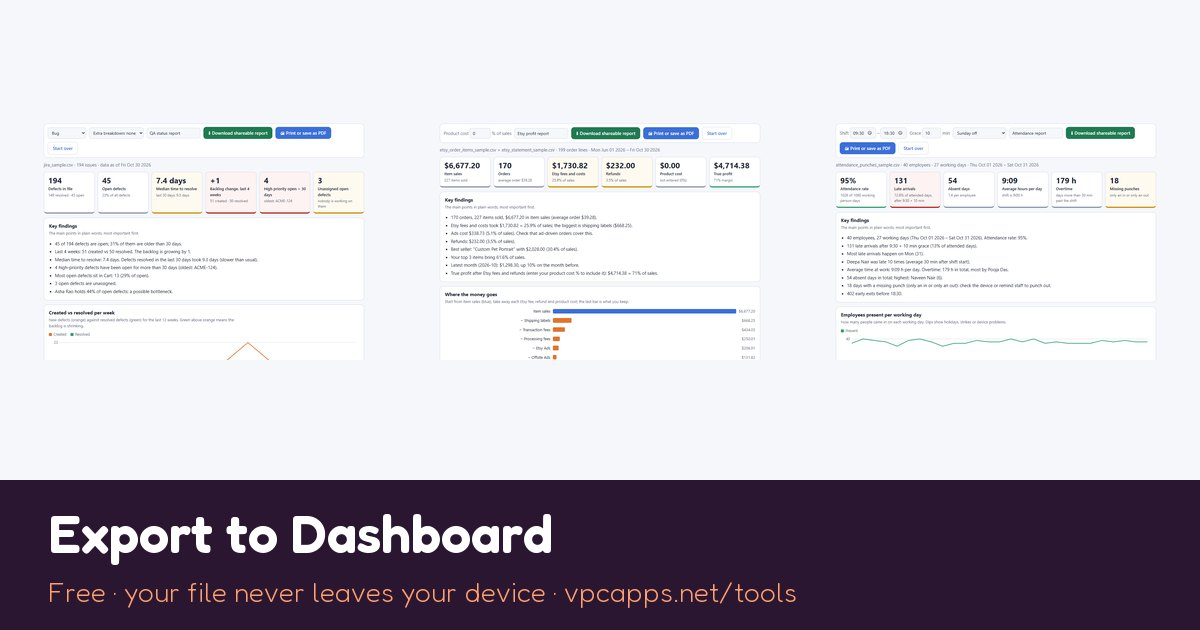
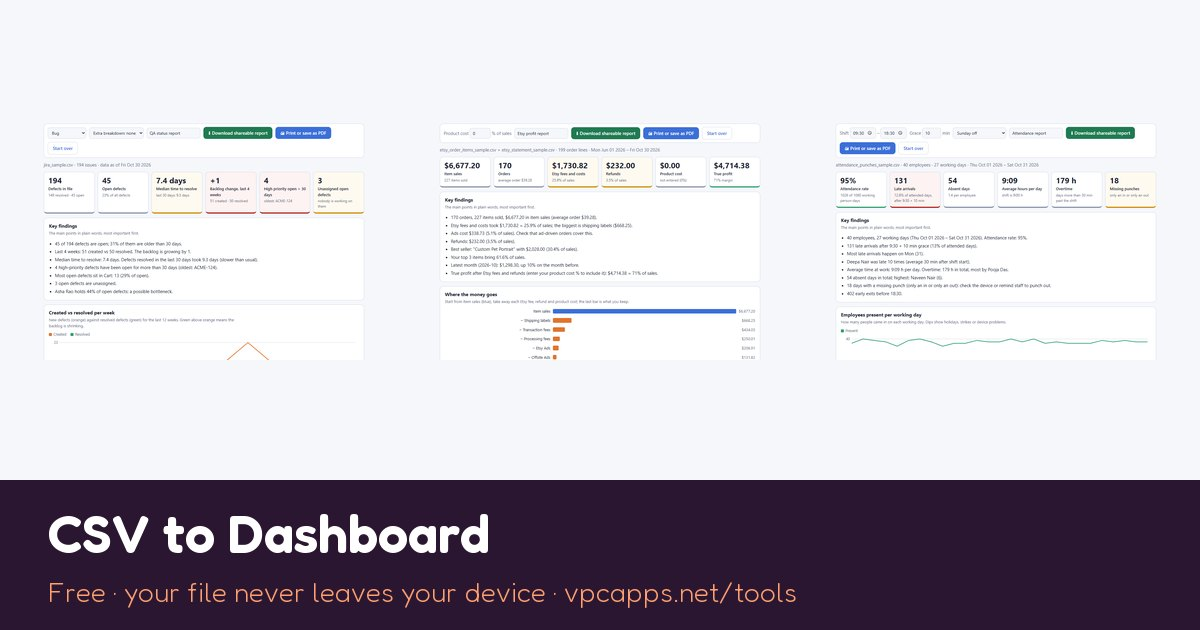
Tools: publish CSV to Dashboard (rename, no watermark, TSV/TXT pickers) and /tools/check/

Changed region(s): [[0.0308, 0.8143, 0.4625, 0.9048]]

diff --git a/tools/jira-csv-dashboard/index.html b/tools/jira-csv-dashboard/index.html
@@ -26,13 +26,13 @@
 <script>(function(){var framed;try{framed=window.top!==window.self;}catch(e){framed=true;}
 if(!framed)return;var ok=false;try{ok=window.top.location.host===location.host;}catch(e){}
 if(ok)return;document.write('<div style="position:fixed;inset:0;display:flex;align-items:center;justify-content:center;background:#fdf1e7;font:16px system-ui,sans-serif;color:#2b2140;text-align:center;z-index:2147483647">'+
-'<div style="padding:24px"><p style="font-size:20px;font-weight:700;margin:0 0 8px">Use Export to Dashboard free on vpcapps.net</p>'+
+'<div style="padding:24px"><p style="font-size:20px;font-weight:700;margin:0 0 8px">Use CSV to Dashboard free on vpcapps.net</p>'+
 '<p style="margin:0 0 18px;color:#6b5f80">This tool by VPC Apps runs on its own page:<br><b>'+location.host+location.pathname+'</b></p>'+
 '<a href="'+location.href.replace(/"/g,'%22')+'" target="_top" rel="noopener" style="display:inline-block;background:#e2495f;color:#fff;padding:12px 20px;border-radius:12px;text-decoration:none;font-weight:700">Open the tool</a></div></div>'+
 '<plaintext style="display:none">');})();</script>
 <script>if('serviceWorker' in navigator)addEventListener('load',function(){navigator.serviceWorker.register('/tools/sw.js').catch(function(){})});</script>
 <script type="application/ld+json">{"@context": "https://schema.org", "@type": "SoftwareApplication", "name": "Jira CSV to dashboard", "description": "Free Jira CSV to dashboard: drop a Jira issues export, get a QA and bug dashboard and an executive summary. Your file never leaves your device.", "url": "https://vpcapps.net/tools/jira-csv-dashboard/", "applicationCategory": "BusinessApplication", "operatingSystem": "Any (web browser)", "image": "https://vpcapps.net/assets/img/tools/jira-og.jpg", "isAccessibleForFree": true, "offers": {"@type": "Offer", "price": "0", "priceCurrency": "USD"}, "publisher": {"@type": "Organization", "name": "VPC Apps", "url": "https://vpcapps.net"}, "featureList": ["Six headline numbers: issues, open, resolved, median time to resolve, high-priority issues open over 30 days, unassigned open issues.", "Findings written out for you: whether the backlog grew in the last 4 weeks, old high-priority bugs, and whether one person holds too many open issues.", "Charts: created vs resolved per week, age of open issues, open by priority, assignee, component and status, issues by fix version.", "Filters for issue type (Bugs by default) and project, plus a breakdown by one of your custom fields such as Severity or Root cause.", "A one-file HTML summary (no scripts, opens anywhere, easy to email) and a print-ready PDF layout."]}</script>
-<script type="application/ld+json">{"@context": "https://schema.org", "@type": "FAQPage", "mainEntity": [{"@type": "Question", "name": "Is my Jira data uploaded anywhere?", "acceptedAnswer": {"@type": "Answer", "text": "No. The CSV is read and analysed by JavaScript in your own browser tab. Nothing from the file is sent to us or to any server, so it suits confidential projects, and it keeps working offline after your first visit."}}, {"@type": "Question", "name": "Which Jira exports work?", "acceptedAnswer": {"@type": "Answer", "text": "Jira Cloud, Server and Data Center issue exports in CSV, with all fields or current fields. Columns are found by their names, so the order doesn't matter, and multi-value fields like Labels, Sprint and Comment that Jira repeats in several columns are merged."}}, {"@type": "Question", "name": "How many issues can I analyse?", "acceptedAnswer": {"@type": "Answer", "text": "The tool reads the first 5,000 rows of each file. Jira Cloud exports up to 10,000 issues at a time; for bigger projects, export one file per quarter or per project."}}, {"@type": "Question", "name": "Can I break the numbers down by a custom field?", "acceptedAnswer": {"@type": "Answer", "text": "Yes. Custom fields appear in the export as \"Custom field (Name)\". Pick one, such as Severity, Root cause or Environment, under \"Extra breakdown\" to see open issues by that field."}}, {"@type": "Question", "name": "How do I share the report?", "acceptedAnswer": {"@type": "Answer", "text": "Use \"Download summary (HTML)\" for a single file you can attach to an email, or \"Print / PDF\" and save as PDF. Reports end with a small \"made with\" line."}}]}</script>
+<script type="application/ld+json">{"@context": "https://schema.org", "@type": "FAQPage", "mainEntity": [{"@type": "Question", "name": "Is my Jira data uploaded anywhere?", "acceptedAnswer": {"@type": "Answer", "text": "No. The CSV is read and analysed by JavaScript in your own browser tab. Nothing from the file is sent to us or to any server, so it suits confidential projects, and it keeps working offline after your first visit."}}, {"@type": "Question", "name": "Which Jira exports work?", "acceptedAnswer": {"@type": "Answer", "text": "Jira Cloud, Server and Data Center issue exports in CSV, with all fields or current fields. Columns are found by their names, so the order doesn't matter, and multi-value fields like Labels, Sprint and Comment that Jira repeats in several columns are merged."}}, {"@type": "Question", "name": "How many issues can I analyse?", "acceptedAnswer": {"@type": "Answer", "text": "The tool reads the first 5,000 rows of each file. Jira Cloud exports up to 10,000 issues at a time; for bigger projects, export one file per quarter or per project."}}, {"@type": "Question", "name": "Can I break the numbers down by a custom field?", "acceptedAnswer": {"@type": "Answer", "text": "Yes. Custom fields appear in the export as \"Custom field (Name)\". Pick one, such as Severity, Root cause or Environment, under \"Extra breakdown\" to see open issues by that field."}}, {"@type": "Question", "name": "How do I share the report?", "acceptedAnswer": {"@type": "Answer", "text": "Use \"Download summary (HTML)\" for a single file you can attach to an email, or \"Print / PDF\" and save as PDF."}}]}</script>
 <script type="application/ld+json">{"@context": "https://schema.org", "@type": "BreadcrumbList", "itemListElement": [{"@type": "ListItem", "position": 1, "name": "Home", "item": "https://vpcapps.net/"}, {"@type": "ListItem", "position": 2, "name": "Tools", "item": "https://vpcapps.net/tools/"}, {"@type": "ListItem", "position": 3, "name": "Jira CSV to dashboard", "item": "https://vpcapps.net/tools/jira-csv-dashboard/"}]}</script>
 </head>
 <body>
@@ -65,8 +65,8 @@ if(ok)return;document.write('<div style="position:fixed;inset:0;display:flex;ali
   <div class="panel"><h2>Your file never leaves your device</h2><p>The tool is a web page that runs entirely in your browser. When you choose a file, it is read and analysed on your computer: nothing is uploaded, stored or seen by us. After your first visit it also works with no internet connection. The page counts anonymous visits with Cloudflare Web Analytics (no cookies, nothing from your file); ad blockers may block it. See our <a href="/privacy/">privacy policy</a>.</p></div>
   <div class="panel"><h2>Coming next: inside Jira</h2><p>We're building a Jira Cloud app that shows a release-readiness scorecard and this summary live inside Jira, with no export needed. <a href="/contact/">Email us</a> if you'd like to hear when it's out.</p></div>
 </section>
-<section class="wrap section narrow faq"><h2>Questions</h2><details><summary>Is my Jira data uploaded anywhere?</summary><p>No. The CSV is read and analysed by JavaScript in your own browser tab. Nothing from the file is sent to us or to any server, so it suits confidential projects, and it keeps working offline after your first visit.</p></details><details><summary>Which Jira exports work?</summary><p>Jira Cloud, Server and Data Center issue exports in CSV, with all fields or current fields. Columns are found by their names, so the order doesn&#x27;t matter, and multi-value fields like Labels, Sprint and Comment that Jira repeats in several columns are merged.</p></details><details><summary>How many issues can I analyse?</summary><p>The tool reads the first 5,000 rows of each file. Jira Cloud exports up to 10,000 issues at a time; for bigger projects, export one file per quarter or per project.</p></details><details><summary>Can I break the numbers down by a custom field?</summary><p>Yes. Custom fields appear in the export as &quot;Custom field (Name)&quot;. Pick one, such as Severity, Root cause or Environment, under &quot;Extra breakdown&quot; to see open issues by that field.</p></details><details><summary>How do I share the report?</summary><p>Use &quot;Download summary (HTML)&quot; for a single file you can attach to an email, or &quot;Print / PDF&quot; and save as PDF. Reports end with a small &quot;made with&quot; line.</p></details></section>
-<section class="wrap section narrow"><p class="muted">More free tools: <a href="/tools/etsy-profit-dashboard/">Etsy profit dashboard</a> · <a href="/tools/attendance-report-analyzer/">Attendance report analyzer</a> · <a href="/tools/">all tools</a></p></section>
+<section class="wrap section narrow faq"><h2>Questions</h2><details><summary>Is my Jira data uploaded anywhere?</summary><p>No. The CSV is read and analysed by JavaScript in your own browser tab. Nothing from the file is sent to us or to any server, so it suits confidential projects, and it keeps working offline after your first visit.</p></details><details><summary>Which Jira exports work?</summary><p>Jira Cloud, Server and Data Center issue exports in CSV, with all fields or current fields. Columns are found by their names, so the order doesn&#x27;t matter, and multi-value fields like Labels, Sprint and Comment that Jira repeats in several columns are merged.</p></details><details><summary>How many issues can I analyse?</summary><p>The tool reads the first 5,000 rows of each file. Jira Cloud exports up to 10,000 issues at a time; for bigger projects, export one file per quarter or per project.</p></details><details><summary>Can I break the numbers down by a custom field?</summary><p>Yes. Custom fields appear in the export as &quot;Custom field (Name)&quot;. Pick one, such as Severity, Root cause or Environment, under &quot;Extra breakdown&quot; to see open issues by that field.</p></details><details><summary>How do I share the report?</summary><p>Use &quot;Download summary (HTML)&quot; for a single file you can attach to an email, or &quot;Print / PDF&quot; and save as PDF.</p></details></section>
+<section class="wrap section narrow"><p class="muted">More free tools: <a href="/tools/etsy-profit-dashboard/">Etsy profit dashboard</a> · <a href="/tools/attendance-report-analyzer/">Attendance report analyzer</a> · <a href="/tools/">all tools</a> · <a href="/tools/check/">Check that your file never leaves your device</a></p></section>
 </main>
 <footer class="foot">
   <div class="wrap">

diff --git a/tools/check/index.html b/tools/check/index.html
@@ -1,0 +1,89 @@
+<!doctype html>
+<html lang="en">
+<head>
+<meta charset="utf-8">
+<meta name="viewport" content="width=device-width, initial-scale=1">
+<title>Check that your file never leaves your device · VPC Apps</title>
+<meta name="description" content="Three five-minute checks: use the tool offline, watch the Network tab while it reads your file, and see that the Chrome extension asks for no permissions.">
+<link rel="canonical" href="https://vpcapps.net/tools/check/">
+<meta property="og:site_name" content="VPC Apps">
+<meta property="og:type" content="website">
+<meta property="og:title" content="Check that your file never leaves your device">
+<meta property="og:description" content="Three five-minute checks: use the tool offline, watch the Network tab while it reads your file, and see that the Chrome extension asks for no permissions.">
+<meta property="og:url" content="https://vpcapps.net/tools/check/">
+<meta property="og:image" content="https://vpcapps.net/assets/img/tools/hub-og.jpg">
+<meta name="twitter:card" content="summary_large_image">
+<meta name="color-scheme" content="light dark">
+<meta name="theme-color" content="#ff5a8a">
+<link rel="icon" href="/favicon.ico" sizes="any">
+<link rel="icon" type="image/png" sizes="32x32" href="/assets/img/brand/favicon-32.png">
+<link rel="apple-touch-icon" href="/assets/img/brand/apple-touch-icon.png">
+<link rel="manifest" href="/site.webmanifest">
+<link rel="preload" href="/assets/fonts/fredoka.woff" as="font" type="font/woff" crossorigin>
+<link rel="stylesheet" href="/assets/css/site.css">
+<script>try{var t=localStorage.getItem('theme');if(t)document.documentElement.dataset.theme=t}catch(e){}</script>
+<script src="/assets/js/site.js" defer></script>
+<script type="application/ld+json">{"@context": "https://schema.org", "@type": "BreadcrumbList", "itemListElement": [{"@type": "ListItem", "position": 1, "name": "Home", "item": "https://vpcapps.net/"}, {"@type": "ListItem", "position": 2, "name": "Tools", "item": "https://vpcapps.net/tools/"}, {"@type": "ListItem", "position": 3, "name": "Check it yourself", "item": "https://vpcapps.net/tools/check/"}]}</script>
+</head>
+<body>
+<a class="skip" href="#main">Skip to content</a>
+<header class="top">
+  <div class="wrap bar">
+    <a class="brand" href="/"><img src="/assets/img/brand/icon-192.png" alt="" width="32" height="32"><span>VPC Apps</span></a>
+    <nav aria-label="Main"><ul><li><a href="/games/">Games</a></li><li><a href="/tools/" aria-current="page">Tools</a></li><li><a href="/apps/">Apps</a></li><li><a href="/about/">About</a></li><li><a href="/press/">Press</a></li><li><a href="/contact/">Contact</a></li></ul></nav>
+    <button class="theme" type="button" aria-label="Switch light or dark theme" title="Light / dark"><span aria-hidden="true"></span></button>
+  </div>
+</header>
+<main id="main">
+<nav class="wrap crumbs" aria-label="Breadcrumb"><a href="/">Home</a> › <a href="/tools/">Tools</a> › <span>Check it yourself</span></nav>
+<section class="wrap section narrow page-head">
+  <h1>Check that your file never leaves your device</h1>
+  <p class="lead">CSV to Dashboard reads your file inside your browser. You don't have to take our word for it: these three checks take about five minutes. Use a sample file or a harmless test file.</p>
+</section>
+<section class="wrap section narrow">
+  <h2>1. Cut the connection</h2>
+  <ol class="steps">
+    <li>Open the tool: <a href="/tools/app/">vpcapps.net/tools/app/</a> (visit it once while online, so your browser keeps a copy), or the Chrome extension.</li>
+    <li>Turn on airplane mode, or in Chrome press <b>F12</b> (Mac: <b>Cmd+Option+I</b>), open the <b>Network</b> tab and change "No throttling" to <b>Offline</b>.</li>
+    <li>Reload the page and choose a file. The dashboard still appears, with no connection at all.</li>
+  </ol>
+  <figure class="shot"><img src="/assets/img/tools/check-offline.webp" alt="The tool showing a Jira dashboard while the browser is offline" width="1280" height="800" loading="lazy"><figcaption class="muted small">The tool reading the Jira sample with the browser set to offline (synthetic data).</figcaption></figure>
+</section>
+<section class="wrap section narrow">
+  <h2>2. Watch the network</h2>
+  <ol class="steps">
+    <li>Go back online, press <b>F12</b> and open the <b>Network</b> tab.</li>
+    <li>Click the clear button (🚫) to empty the list.</li>
+    <li>Choose your file and wait for the dashboard. The list stays empty: no request carries your file, or anything else.</li>
+  </ol>
+  <p class="muted small">Two things you may see. <b>Download shareable report</b> can add an entry starting with <code>blob:</code>: that is the file being made in your browser's memory. The <b>Try a sample</b> buttons load a sample file from the tool itself. On the website, loading the page also reaches vpcapps.net and our visit counter (Cloudflare Web Analytics); choosing a file adds nothing.</p>
+  <figure class="shot"><img src="/assets/img/tools/check-network.webp" alt="The tool waiting for a file to be chosen" width="1280" height="800" loading="lazy"><figcaption class="muted small">The moment to clear the Network list: the tool before you choose a file.</figcaption></figure>
+</section>
+<section class="wrap section narrow">
+  <h2>3. See what the Chrome extension may access</h2>
+  <ol class="steps">
+    <li>If you use the Chrome extension (coming to the Chrome Web Store), go to <code>chrome://extensions</code>.</li>
+    <li>Find <b>CSV to Dashboard: Instant Charts &amp; Reports</b> and click <b>Details</b>.</li>
+    <li>It says "This extension requires no special permissions" and "This extension has no additional site access". It cannot read your other tabs or send anything to a website.</li>
+  </ol>
+  <figure class="shot"><img src="/assets/img/tools/check-extension.webp" alt="Chrome&#x27;s details page: no special permissions, no additional site access" width="680" height="352" loading="lazy"><figcaption class="muted small">Chrome&#x27;s own details page for the extension, from our test install.</figcaption></figure>
+</section>
+<section class="wrap section narrow">
+  <div class="panel"><h2>What these checks show</h2><p>They show what the version you have does, on your computer, today; repeat them after an update if it matters to you. Chrome itself still talks to Google (for example to check for updates), and other extensions you have installed may be able to read web pages. If you download or print a report, that file holds figures from your export, and where it goes is up to you. Found something different? Tell us at <a href="mailto:support@vpcapps.net">support@vpcapps.net</a>. See also our <a href="/privacy/">privacy policy</a>.</p></div>
+</section>
+<section class="wrap section narrow"><p class="muted"><a href="/tools/">Back to the tools</a></p></section>
+</main>
+<footer class="foot">
+  <div class="wrap">
+    <div class="foot-grid">
+      <div><a class="brand" href="/"><img src="/assets/img/brand/icon-192.png" alt="" width="28" height="28"><span>VPC Apps</span></a>
+      <p class="muted">Bite-size puzzle games for your phone and your browser.</p></div>
+      <ul><li><a href="/games/">Games</a></li><li><a href="/tools/">Free tools</a></li><li><a href="/apps/">Apps</a></li><li><a href="/about/">About</a></li><li><a href="/press/">Press kit</a></li></ul>
+      <ul><li><a href="/contact/">Contact</a></li><li><a href="/privacy/">Privacy policy</a></li><li><a href="/terms/">Terms of use</a></li></ul>
+    </div>
+    <p class="muted small">© 2026 VPC Apps, a brand of Venture Path Consulting (India) · Google Play and the Google Play logo are trademarks of Google LLC.</p>
+  </div>
+</footer>
+<!-- Cloudflare Web Analytics --><script type='module' src='https://static.cloudflareinsights.com/beacon.min.js' data-cf-beacon='{"token": "a470f94b795a45578b8f87cbfcca8c9d"}'></script><!-- End Cloudflare Web Analytics -->
+</body>
+</html>

diff --git a/tools/index.html b/tools/index.html
@@ -3,12 +3,12 @@
 <head>
 <meta charset="utf-8">
 <meta name="viewport" content="width=device-width, initial-scale=1">
-<title>Export to Dashboard: free CSV to dashboard tools · VPC Apps</title>
+<title>CSV to Dashboard: Instant Charts &amp; Reports · VPC Apps</title>
 <meta name="description" content="Free CSV to dashboard tools for Jira, Etsy and biometric attendance exports: a dashboard, plain-English findings and a summary to share. Nothing is uploaded.">
 <link rel="canonical" href="https://vpcapps.net/tools/">
 <meta property="og:site_name" content="VPC Apps">
 <meta property="og:type" content="website">
-<meta property="og:title" content="Export to Dashboard: free CSV to dashboard tools">
+<meta property="og:title" content="CSV to Dashboard: Instant Charts &amp; Reports">
 <meta property="og:description" content="Free CSV to dashboard tools for Jira, Etsy and biometric attendance exports: a dashboard, plain-English findings and a summary to share. Nothing is uploaded.">
 <meta property="og:url" content="https://vpcapps.net/tools/">
 <meta property="og:image" content="https://vpcapps.net/assets/img/tools/hub-og.jpg">
@@ -26,12 +26,12 @@
 <script>(function(){var framed;try{framed=window.top!==window.self;}catch(e){framed=true;}
 if(!framed)return;var ok=false;try{ok=window.top.location.host===location.host;}catch(e){}
 if(ok)return;document.write('<div style="position:fixed;inset:0;display:flex;align-items:center;justify-content:center;background:#fdf1e7;font:16px system-ui,sans-serif;color:#2b2140;text-align:center;z-index:2147483647">'+
-'<div style="padding:24px"><p style="font-size:20px;font-weight:700;margin:0 0 8px">Use Export to Dashboard free on vpcapps.net</p>'+
+'<div style="padding:24px"><p style="font-size:20px;font-weight:700;margin:0 0 8px">Use CSV to Dashboard free on vpcapps.net</p>'+
 '<p style="margin:0 0 18px;color:#6b5f80">This tool by VPC Apps runs on its own page:<br><b>'+location.host+location.pathname+'</b></p>'+
 '<a href="'+location.href.replace(/"/g,'%22')+'" target="_top" rel="noopener" style="display:inline-block;background:#e2495f;color:#fff;padding:12px 20px;border-radius:12px;text-decoration:none;font-weight:700">Open the tool</a></div></div>'+
 '<plaintext style="display:none">');})();</script>
 <script>if('serviceWorker' in navigator)addEventListener('load',function(){navigator.serviceWorker.register('/tools/sw.js').catch(function(){})});</script>
-<script type="application/ld+json">{"@context": "https://schema.org", "@type": "SoftwareApplication", "name": "Export to Dashboard", "description": "Turn Jira, Etsy and attendance CSV exports into dashboards in your browser.", "url": "https://vpcapps.net/tools/", "applicationCategory": "BusinessApplication", "operatingSystem": "Any (web browser)", "image": "https://vpcapps.net/assets/img/tools/hub-og.jpg", "isAccessibleForFree": true, "offers": {"@type": "Offer", "price": "0", "priceCurrency": "USD"}, "publisher": {"@type": "Organization", "name": "VPC Apps", "url": "https://vpcapps.net"}}</script>
+<script type="application/ld+json">{"@context": "https://schema.org", "@type": "SoftwareApplication", "name": "CSV to Dashboard: Instant Charts & Reports", "description": "Turn Jira, Etsy and attendance CSV exports into dashboards in your browser.", "url": "https://vpcapps.net/tools/", "applicationCategory": "BusinessApplication", "operatingSystem": "Any (web browser)", "image": "https://vpcapps.net/assets/img/tools/hub-og.jpg", "isAccessibleForFree": true, "offers": {"@type": "Offer", "price": "0", "priceCurrency": "USD"}, "publisher": {"@type": "Organization", "name": "VPC Apps", "url": "https://vpcapps.net"}}</script>
 <script type="application/ld+json">{"@context": "https://schema.org", "@type": "ItemList", "itemListElement": [{"@type": "ListItem", "position": 1, "url": "https://vpcapps.net/tools/jira-csv-dashboard/"}, {"@type": "ListItem", "position": 2, "url": "https://vpcapps.net/tools/etsy-profit-dashboard/"}, {"@type": "ListItem", "position": 3, "url": "https://vpcapps.net/tools/attendance-report-analyzer/"}]}</script>
 </head>
 <body>
@@ -46,9 +46,9 @@ if(ok)return;document.write('<div style="position:fixed;inset:0;display:flex;ali
 <main id="main">
 <section class="wrap section page-head">
   <p class="eyebrow">Free tool</p>
-  <h1>Export to Dashboard</h1>
+  <h1>CSV to Dashboard: Instant Charts &amp; Reports</h1>
   <p class="lead">Turn a CSV export into a dashboard, findings in plain English and a summary you can share. Pick your source:</p>
-  <p class="privacy-line">🔒 Your file never leaves your device: everything is worked out in your browser. No upload, no account.</p>
+  <p class="privacy-line">🔒 Your file never leaves your device: everything is worked out in your browser. No upload, no account. <a href="/tools/check/">Check it yourself</a>.</p>
 </section>
 <section class="wrap section"><div class="grid tools-grid"><article class="card tool-card">
   <a class="cover" href="/tools/jira-csv-dashboard/"><img src="/assets/img/tools/jira-1280.webp" alt="Jira CSV to dashboard example dashboard" width="1280" height="800" loading="lazy"></a>
@@ -69,7 +69,7 @@ if(ok)return;document.write('<div style="position:fixed;inset:0;display:flex;ali
     <li>Drop it on the page. The format is recognised and the numbers appear in a second.</li>
     <li>Adjust the settings, then download a one-file HTML summary or print it as a PDF.</li></ol></div>
   <div><h2>Free, private, offline</h2><ul class="checks">
-    <li>Free for files up to 5,000 rows each; exports carry a small "made with" line.</li>
+    <li>Free. Reads the first 5,000 rows of each file.</li>
     <li>No upload: the file is read by your own browser, so it suits work and staff data. The pages only count anonymous visits (Cloudflare Web Analytics, no cookies, never your file).</li>
     <li>Works offline after your first visit. In Chrome or Edge you can install it as an app from the address bar.</li></ul></div>
 </section>

diff --git a/tools/app/index.html b/tools/app/index.html
@@ -4,13 +4,13 @@
 <script>(function(){var framed;try{framed=window.top!==window.self;}catch(e){framed=true;}
 if(!framed)return;var ok=false;try{ok=window.top.location.host===location.host;}catch(e){}
 if(ok)return;document.write('<div style="position:fixed;inset:0;display:flex;align-items:center;justify-content:center;background:#fdf1e7;font:16px system-ui,sans-serif;color:#2b2140;text-align:center;z-index:2147483647">'+
-'<div style="padding:24px"><p style="font-size:20px;font-weight:700;margin:0 0 8px">Use Export to Dashboard free on vpcapps.net</p>'+
+'<div style="padding:24px"><p style="font-size:20px;font-weight:700;margin:0 0 8px">Use CSV to Dashboard free on vpcapps.net</p>'+
 '<p style="margin:0 0 18px;color:#6b5f80">This tool by VPC Apps runs on its own page:<br><b>'+location.host+location.pathname+'</b></p>'+
 '<a href="'+location.href.replace(/"/g,'%22')+'" target="_top" rel="noopener" style="display:inline-block;background:#e2495f;color:#fff;padding:12px 20px;border-radius:12px;text-decoration:none;font-weight:700">Open the tool</a></div></div>'+
 '<plaintext style="display:none">');})();</script>
 <meta charset="utf-8">
 <meta name="viewport" content="width=device-width,initial-scale=1">
-<title>Export to Dashboard: free, private, offline</title>
+<title>CSV to Dashboard: Instant Charts &amp; Reports</title>
 <link rel="icon" href="/favicon.ico" sizes="any">
 <link rel="canonical" href="https://vpcapps.net/tools/">
 <link rel="manifest" href="/tools/manifest.webmanifest">
@@ -87,7 +87,7 @@ body[data-source] [data-src]:not(.on){display:none}
 </style>
 </head>
 <body>
-<div class="top no-print"><div class="brand">VPC Apps <span id="brand-sub">· Export to Dashboard</span></div><div class="muted">Free · private · works offline</div></div>
+<div class="top no-print"><div class="brand">VPC Apps <span id="brand-sub">· CSV to Dashboard</span></div><div class="muted">Free · private · works offline</div></div>
 
 <section id="drop" class="drop no-print">
   <h1 id="hero">Turn your export into a dashboard</h1>
@@ -109,7 +109,7 @@ body[data-source] [data-src]:not(.on){display:none}
     <label data-for="attendance" class="muted">Shift <input id="a-start" type="time" value="09:30" aria-label="Shift start"> – <input id="a-end" type="time" value="18:30" aria-label="Shift end"></label>
     <label data-for="attendance" class="muted">Grace <input id="a-grace" type="text" inputmode="numeric" value="10" size="2" aria-label="Grace minutes"> min</label>
     <label data-for="attendance"><select id="a-off" aria-label="Weekly off days"><option value="0">Sunday off</option><option value="0,6">Saturday + Sunday off</option><option value="5">Friday off</option><option value="">No weekly off</option></select></label>
-    <label data-for="etsy" class="btn ghost">Add the other Etsy file<input id="file2" type="file" accept=".csv" hidden></label>
+    <label data-for="etsy" class="btn ghost">Add the other Etsy file<input id="file2" type="file" accept=".csv,.tsv,.txt" hidden></label>
     <input id="x-title" type="text" value="Report" aria-label="Report title">
     <button id="export" class="btn go" type="button" title="One HTML file: opens in any browser, works offline, easy to email">⬇ Download shareable report</button>
     <button id="print" class="btn" type="button">🖨 Print or save as PDF</button>

diff --git a/tools/app/src/app.js b/tools/app/src/app.js
@@ -1,10 +1,12 @@
 // E8 app: file(s) → detect template (and which part, for multi-file sources) →
 // controls → dashboard → single-file export.
-// Free tier: first FREE_ROWS rows per file and a watermark on the HTML export and on Print/PDF
-// (E8.pro unlocks both later).
+// Free tier: first FREE_ROWS rows per file. The "Made with…" watermark on the HTML export and on Print/PDF
+// is OFF while we launch free (user, 11-08); SHOW_WATERMARK is the one switch that brings it back.
+// E8.pro removes both later.
 'use strict';
 
 var E8 = window.E8 || (window.E8 = {});
+if (E8.SHOW_WATERMARK === undefined) E8.SHOW_WATERMARK = false;
 
 (function () {
   var Eng = E8.Engine;
@@ -12,7 +14,8 @@ var E8 = window.E8 || (window.E8 = {});
   var TITLES = { jira: 'QA status report', etsy: 'Etsy profit report', attendance: 'Attendance report' };
   var SAMPLES = { jira: ['samples/jira_sample.csv'], etsy: ['samples/etsy_order_items_sample.csv', 'samples/etsy_statement_sample.csv'],
     attendance: ['samples/attendance_punches_sample.csv'] };
-  var WATERMARK = 'Made with Export to Dashboard · vpcapps.net/tools';
+  var WATERMARK = 'Made with CSV to Dashboard · vpcapps.net/tools';
+  var watermark = function () { return E8.SHOW_WATERMARK && !E8.pro; };
   var state = fresh();
   var $ = function (id) { return document.getElementById(id); };
 
@@ -31,7 +34,7 @@ var E8 = window.E8 || (window.E8 = {});
   function readFiles(list) {
     var files = Array.prototype.slice.call(list);
     var bad = files.filter(function (f) { return !/\.(csv|tsv|txt)$/i.test(f.name); });
-    if (bad.length) return error('Please choose a CSV export (.csv). From Excel: File → Save As → CSV.');
+    if (bad.length) return error('Please choose a CSV, TSV or TXT export (.csv, .tsv, .txt). From Excel: File → Save As → CSV.');
     Promise.all(files.map(function (f) {
       return new Promise(function (ok, fail) {
         var fr = new FileReader();
@@ -99,8 +102,8 @@ var E8 = window.E8 || (window.E8 = {});
       (state.capped ? ' · reads the first ' + Eng.FREE_ROWS.toLocaleString() + ' rows per file' : '');
     $('body').innerHTML = state.model.total ? t.render(state.model) : '<p class="muted">No rows match these settings.</p>';
     // In the page rather than added on the button click, so the browser's own Print (Ctrl+P) carries it too.
-    $('print-wm').textContent = E8.pro ? '' : WATERMARK;
-    $('print-wm').hidden = !!E8.pro;
+    $('print-wm').textContent = watermark() ? WATERMARK : '';
+    $('print-wm').hidden = !watermark();
   }
 
   function metaLine() {
@@ -120,7 +123,7 @@ var E8 = window.E8 || (window.E8 = {});
     var html = '<!doctype html><html lang="en"><head><meta charset="utf-8"><meta name="viewport" content="width=device-width,initial-scale=1">' +
       '<title>' + Eng.esc(title) + '</title><style>' + css + '</style></head><body><main class="report">' +
       '<header><h1>' + Eng.esc(title) + '</h1><p class="muted">' + Eng.esc(metaLine()) + '</p></header>' + state.tpl.render(m) +
-      (E8.pro ? '' : '<footer class="wm">' + WATERMARK + '</footer>') +
+      (watermark() ? '<footer class="wm">' + WATERMARK + '</footer>' : '') +
       '</main></body></html>';
     var a = document.createElement('a');
     a.href = URL.createObjectURL(new Blob([html], { type: 'text/html' }));

diff --git a/tools/attendance-report-analyzer/index.html b/tools/attendance-report-analyzer/index.html
@@ -26,7 +26,7 @@
 <script>(function(){var framed;try{framed=window.top!==window.self;}catch(e){framed=true;}
 if(!framed)return;var ok=false;try{ok=window.top.location.host===location.host;}catch(e){}
 if(ok)return;document.write('<div style="position:fixed;inset:0;display:flex;align-items:center;justify-content:center;background:#fdf1e7;font:16px system-ui,sans-serif;color:#2b2140;text-align:center;z-index:2147483647">'+
-'<div style="padding:24px"><p style="font-size:20px;font-weight:700;margin:0 0 8px">Use Export to Dashboard free on vpcapps.net</p>'+
+'<div style="padding:24px"><p style="font-size:20px;font-weight:700;margin:0 0 8px">Use CSV to Dashboard free on vpcapps.net</p>'+
 '<p style="margin:0 0 18px;color:#6b5f80">This tool by VPC Apps runs on its own page:<br><b>'+location.host+location.pathname+'</b></p>'+
 '<a href="'+location.href.replace(/"/g,'%22')+'" target="_top" rel="noopener" style="display:inline-block;background:#e2495f;color:#fff;padding:12px 20px;border-radius:12px;text-decoration:none;font-weight:700">Open the tool</a></div></div>'+
 '<plaintext style="display:none">');})();</script>
@@ -66,7 +66,7 @@ if(ok)return;document.write('<div style="position:fixed;inset:0;display:flex;ali
   
 </section>
 <section class="wrap section narrow faq"><h2>Questions</h2><details><summary>Which machines and software are supported?</summary><p>Exports from eSSL eTimeTrackLite (daily and monthly In/Out reports) and ZKTeco / BioTime transaction logs. Columns are found by their names, so most other devices that export a punch log or an In/Out report also work.</p></details><details><summary>How are late arrivals counted?</summary><p>An employee is late when their first punch of a working day is after shift start plus your grace minutes. Change the shift or the grace and every number updates at once.</p></details><details><summary>How is overtime calculated?</summary><p>Time between the first and last punch of the day, beyond the length of your shift; anything up to 30 minutes over is not counted. Days with only an in or only an out punch are shown as missing punches instead of being guessed.</p></details><details><summary>Is employee data uploaded?</summary><p>No. The file is processed in your browser and never leaves your computer, which matters for staff data. There is no account and no server.</p></details><details><summary>My export is in Excel (.xlsx). What do I do?</summary><p>Open it in Excel and use File → Save As → CSV, then drop the CSV here.</p></details></section>
-<section class="wrap section narrow"><p class="muted">More free tools: <a href="/tools/jira-csv-dashboard/">Jira CSV to dashboard</a> · <a href="/tools/etsy-profit-dashboard/">Etsy profit dashboard</a> · <a href="/tools/">all tools</a></p></section>
+<section class="wrap section narrow"><p class="muted">More free tools: <a href="/tools/jira-csv-dashboard/">Jira CSV to dashboard</a> · <a href="/tools/etsy-profit-dashboard/">Etsy profit dashboard</a> · <a href="/tools/">all tools</a> · <a href="/tools/check/">Check that your file never leaves your device</a></p></section>
 </main>
 <footer class="foot">
   <div class="wrap">

diff --git a/tools/etsy-profit-dashboard/index.html b/tools/etsy-profit-dashboard/index.html
@@ -26,7 +26,7 @@
 <script>(function(){var framed;try{framed=window.top!==window.self;}catch(e){framed=true;}
 if(!framed)return;var ok=false;try{ok=window.top.location.host===location.host;}catch(e){}
 if(ok)return;document.write('<div style="position:fixed;inset:0;display:flex;align-items:center;justify-content:center;background:#fdf1e7;font:16px system-ui,sans-serif;color:#2b2140;text-align:center;z-index:2147483647">'+
-'<div style="padding:24px"><p style="font-size:20px;font-weight:700;margin:0 0 8px">Use Export to Dashboard free on vpcapps.net</p>'+
+'<div style="padding:24px"><p style="font-size:20px;font-weight:700;margin:0 0 8px">Use CSV to Dashboard free on vpcapps.net</p>'+
 '<p style="margin:0 0 18px;color:#6b5f80">This tool by VPC Apps runs on its own page:<br><b>'+location.host+location.pathname+'</b></p>'+
 '<a href="'+location.href.replace(/"/g,'%22')+'" target="_top" rel="noopener" style="display:inline-block;background:#e2495f;color:#fff;padding:12px 20px;border-radius:12px;text-decoration:none;font-weight:700">Open the tool</a></div></div>'+
 '<plaintext style="display:none">');})();</script>
@@ -66,7 +66,7 @@ if(ok)return;document.write('<div style="position:fixed;inset:0;display:flex;ali
   
 </section>
 <section class="wrap section narrow faq"><h2>Questions</h2><details><summary>Which Etsy files do I need?</summary><p>The Order Items CSV (what you sold) and the monthly payments statement CSV (what Etsy charged and paid). Either one works alone; with both you get sales, fees and profit together.</p></details><details><summary>How is true profit calculated?</summary><p>Sales, minus every fee and cost line in your Etsy statement (transaction, processing, listing and other Etsy fees, Etsy Ads, shipping labels, refunds), minus the product cost you enter as a % of sales.</p></details><details><summary>Do I have to connect my Etsy shop?</summary><p>No. There is no login and no shop connection. You download the CSVs from Etsy yourself and the numbers are worked out in your browser. Nothing is uploaded.</p></details><details><summary>Does it work for any country and currency?</summary><p>Yes. It uses the amounts in your files as they are, so the fees match what Etsy actually charged your shop, whatever your country.</p></details><details><summary>Is there a limit?</summary><p>The tool reads the first 5,000 rows of each file, which covers a year of orders for most small shops.</p></details></section>
-<section class="wrap section narrow"><p class="muted">More free tools: <a href="/tools/jira-csv-dashboard/">Jira CSV to dashboard</a> · <a href="/tools/attendance-report-analyzer/">Attendance report analyzer</a> · <a href="/tools/">all tools</a></p></section>
+<section class="wrap section narrow"><p class="muted">More free tools: <a href="/tools/jira-csv-dashboard/">Jira CSV to dashboard</a> · <a href="/tools/attendance-report-analyzer/">Attendance report analyzer</a> · <a href="/tools/">all tools</a> · <a href="/tools/check/">Check that your file never leaves your device</a></p></section>
 </main>
 <footer class="foot">
   <div class="wrap">

diff --git a/privacy/index.html b/privacy/index.html
@@ -36,7 +36,7 @@
 <main id="main">
 <section class="wrap section page-head narrow prose">
   <h1>Privacy policy</h1>
-  <p class="muted">Website privacy policy · last updated 7 November 2026</p>
+  <p class="muted">Website privacy policy · last updated 8 November 2026</p>
   <p>This policy covers the website <b>vpcapps.net</b> and the browser games played on it. Each of our Android apps has its own privacy policy, linked from its game page and its Google Play listing.</p>
   <h2>Summary</h2>
   <ul>
@@ -51,7 +51,7 @@
   <h2>Browser games</h2>
   <p>When you play a game on this site, it stores your progress (levels unlocked, stars, settings) in your browser's local storage on your device. You can delete it at any time by clearing your browser's site data. Some game demos are loaded from our older site, vpc-apps.github.io, which is also hosted by GitHub Pages and run by us under the same rules.</p>
   <h2>Free tools</h2>
-  <p>Our tools at <a href="/tools/">vpcapps.net/tools</a> (such as Export to Dashboard) process the files you choose locally in your browser and send nothing from them to us or anyone else; your files never leave your device. The tool pages count visits like the rest of the site (see Visit counter), and that count never includes your file, its name or its contents.</p>
+  <p>Our tools at <a href="/tools/">vpcapps.net/tools</a> (such as CSV to Dashboard) process the files you choose locally in your browser and send nothing from them to us or anyone else; your files never leave your device. The tool pages count visits like the rest of the site (see Visit counter), and that count never includes your file, its name or its contents.</p>
   <h2>Videos and images</h2>
   <p>All videos, images and fonts are served from this site. We don't embed third-party players or social media widgets.</p>
   <h2>Advertising</h2>

diff --git a/apps/index.html b/apps/index.html
@@ -38,7 +38,7 @@
   <h1>Apps</h1>
   <p class="lead">Games come first at VPC Apps, but not only games.</p>
   <p>We are working on small, focused apps and tools: the kind that do one job well, open fast, work offline where they can and don't ask for more permissions than they need. They will be listed here, each with its own page and privacy policy, as soon as they are ready.</p>
-  <div class="panel"><h2>Live now: Export to Dashboard</h2><p>A free browser tool that turns a CSV export into a dashboard, findings in plain English and a summary to share: <a href="/tools/jira-csv-dashboard/">Jira issues</a>, <a href="/tools/etsy-profit-dashboard/">Etsy sales and fees</a> and <a href="/tools/attendance-report-analyzer/">biometric attendance</a>. Your file never leaves your device. <a href="/tools/">Open the tools →</a></p></div>
+  <div class="panel"><h2>Live now: CSV to Dashboard: Instant Charts &amp; Reports</h2><p>A free browser tool that turns a CSV export into a dashboard, findings in plain English and a summary to share: <a href="/tools/jira-csv-dashboard/">Jira issues</a>, <a href="/tools/etsy-profit-dashboard/">Etsy sales and fees</a> and <a href="/tools/attendance-report-analyzer/">biometric attendance</a>. Your file never leaves your device. <a href="/tools/">Open the tools →</a></p></div>
   <h2>What to expect from our apps</h2>
   <ul class="checks">
     <li>Free to use, with any paid extra clearly marked.</li>

diff --git a/index.html b/index.html
@@ -102,7 +102,7 @@
   <div><h2>A little world</h2><p>Most of our games live in <b>Hoshikaze Valley</b>, a small ninja world with its own cast: <b>Ren</b>, the young ninja; <b>Mika</b>, his friend; <b>Pon</b>, a tanuki who hands out hints; and <b>Lord Onibi</b>, who keeps stealing the valley's spirit lanterns.</p></div>
 </section>
 <section class="wrap section">
-  <div class="panel"><h2>Free tools</h2><p>Games come first, but we also make small, useful tools. <a href="/tools/">Export to Dashboard</a> turns a Jira, Etsy or attendance CSV export into a dashboard and a summary to share, right in your browser: your file never leaves your device. <a href="/tools/">Try it →</a></p></div>
+  <div class="panel"><h2>Free tools</h2><p>Games come first, but we also make small, useful tools. <a href="/tools/">CSV to Dashboard</a> turns a Jira, Etsy or attendance CSV export into a dashboard and a summary to share, right in your browser: your file never leaves your device. <a href="/tools/">Try it →</a></p></div>
 </section>
 </main>
 <footer class="foot">

diff --git a/tools/sw.js b/tools/sw.js
@@ -1,5 +1,5 @@
-// Export to Dashboard offline cache. Scope /tools/ only. Generated by tools/build.py.
-var CACHE = 'e8-0bfc7081a734';
+// CSV to Dashboard offline cache. Scope /tools/ only. Generated by tools/build.py.
+var CACHE = 'e8-7334cf84b921';
 var SHELL = [
 "/tools/",
 "/tools/jira-csv-dashboard/",
